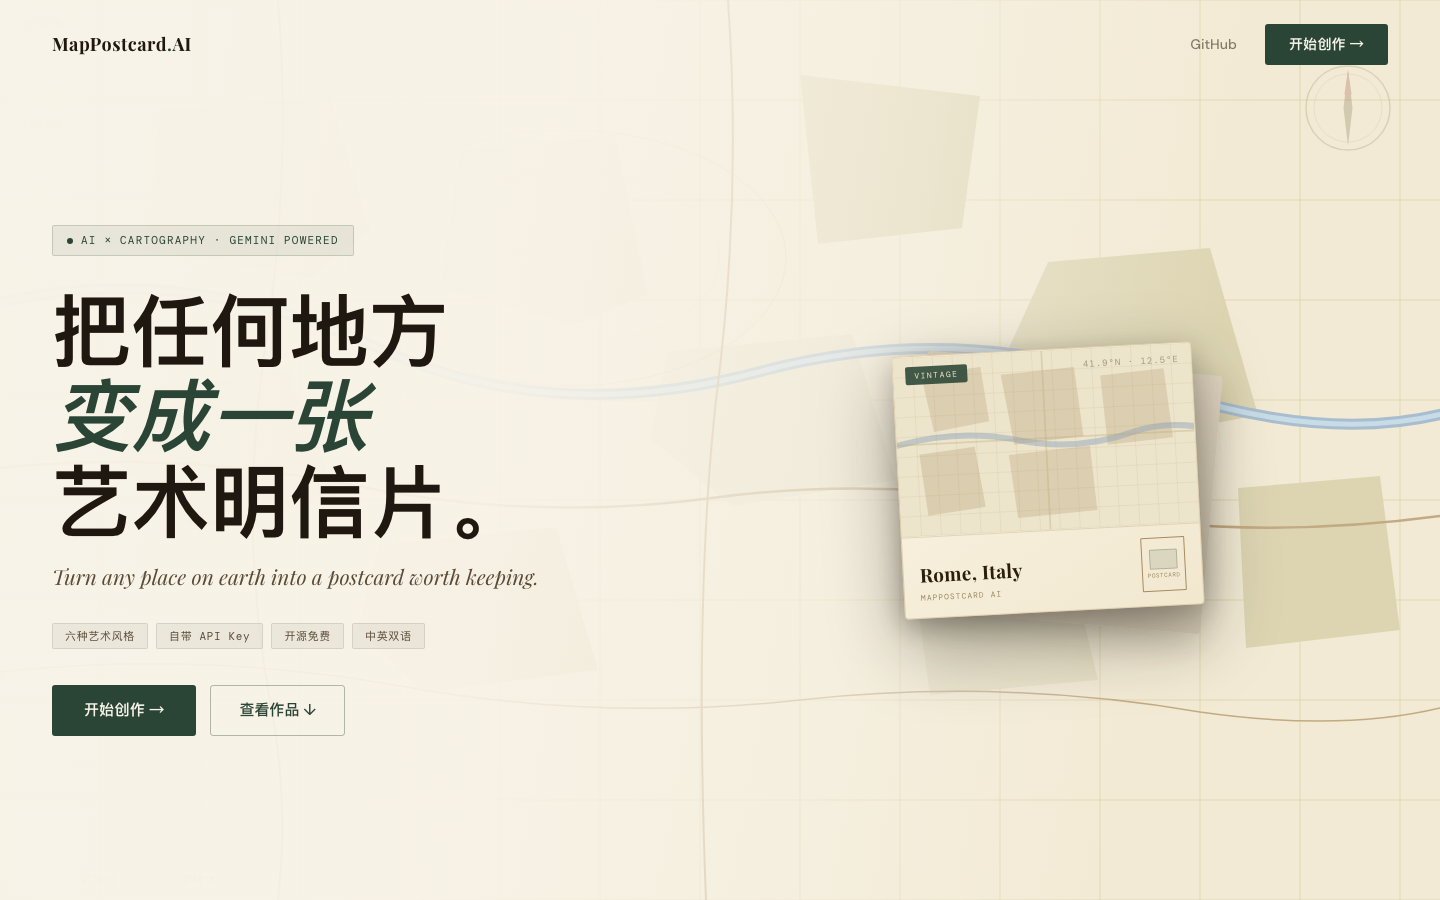
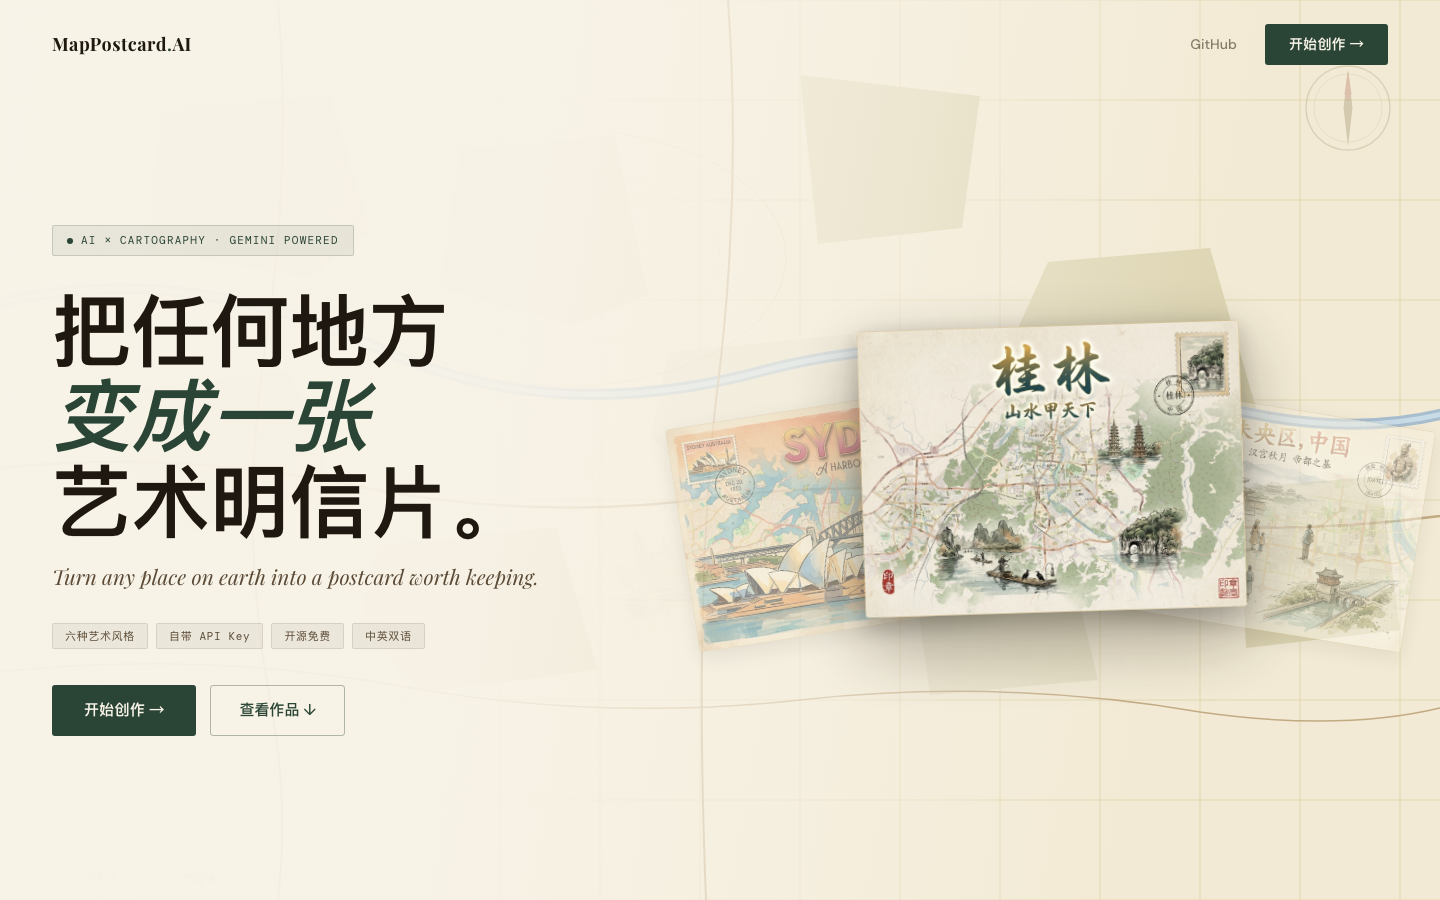
docs: add collection binder screenshot and Gemini model badges to README

Changed region(s): [[0.4375, 0.3422, 1.0, 0.7156], [0.9688, 0.5911, 1.0, 0.6222]]

diff --git a/README.zh.md b/README.zh.md
@@ -9,7 +9,9 @@
 [![License: AGPL v3](https://img.shields.io/badge/license-AGPL%20v3-blue.svg)](./LICENSE)
 [![Deploy with Vercel](https://img.shields.io/badge/deployed%20on-Vercel-black?logo=vercel)](https://postcard-map-ai.vercel.app)
 [![React](https://img.shields.io/badge/React-18-61DAFB?logo=react&logoColor=white)](https://react.dev)
-[![Gemini](https://img.shields.io/badge/Gemini-2.5%20Flash-4285F4?logo=google&logoColor=white)](https://aistudio.google.com)
+[![Gemini 2.5 Flash](https://img.shields.io/badge/Gemini-2.5%20Flash-4285F4?logo=google&logoColor=white)](https://aistudio.google.com)
+[![Gemini 3.1 Flash](https://img.shields.io/badge/Gemini-3.1%20Flash-5A9CF8?logo=google&logoColor=white)](https://aistudio.google.com)
+[![Gemini 3 Pro](https://img.shields.io/badge/Gemini-3%20Pro-1A73E8?logo=google&logoColor=white)](https://aistudio.google.com)
 
 </div>
 
@@ -17,9 +19,9 @@
 
 ## 界面截图
 
-| 落地页 | 主应用 |
-|:---:|:---:|
-| ![落地页](./img/screenshot-app.png) | ![主应用界面](./img/screenshot-app-main.png) |
+| 落地页 | 地图编辑 | 明信片集 |
+|:---:|:---:|:---:|
+| ![落地页](./img/screenshot-app.png) | ![主应用界面](./img/screenshot-app-main.png) | ![历史活页本](./img/screenshot-app-history-pan.png) |
 
 ## 功能特性
 
@@ -29,7 +31,7 @@
 - **7 种画幅比例** — 1:1、4:3、3:4、16:9、9:16、3:2、2:3
 - **明信片背面** — 与正面风格匹配的背面同步生成
 - **上传照片** — 把自己加入场景，AI 以明信片画风重新绘制你的形象
-- **历史记录** — 本次会话内的生成记录（刷新页面后清空）
+- **明信片集** — 生成的明信片收集在悬浮活页本面板中，仅限本次会话（刷新后清空）
 - **随机探索** — 罗盘按钮随机跳转城市 + 随机风格，一键获取灵感
 - **费用估算** — 每次生成后显示 token 用量和预估 USD 费用
 
@@ -112,7 +114,7 @@ vercel --prod
 
 ## 已知限制
 
-- **历史记录仅限本次会话** — 刷新页面后记录消失，不做持久化存储
+- **明信片集仅限本次会话** — 刷新页面后记录消失，不做持久化存储
 - **Nano Banana Pro 需付费 API Key** — 免费 Key 调用 `gemini-3-pro-image-preview` 会返回 403 错误
 - **地图瓦片 CORS** — 截图依赖瓦片服务允许 CORS，部分自定义图层可能截图空白
 - **费用为估算值** — 基于 token 数量计算，非 Google 实际账单数据

diff --git a/README.md b/README.md
@@ -9,7 +9,9 @@
 [![License: AGPL v3](https://img.shields.io/badge/license-AGPL%20v3-blue.svg)](./LICENSE)
 [![Deploy with Vercel](https://img.shields.io/badge/deployed%20on-Vercel-black?logo=vercel)](https://postcard-map-ai.vercel.app)
 [![React](https://img.shields.io/badge/React-18-61DAFB?logo=react&logoColor=white)](https://react.dev)
-[![Gemini](https://img.shields.io/badge/Gemini-2.5%20Flash-4285F4?logo=google&logoColor=white)](https://aistudio.google.com)
+[![Gemini 2.5 Flash](https://img.shields.io/badge/Gemini-2.5%20Flash-4285F4?logo=google&logoColor=white)](https://aistudio.google.com)
+[![Gemini 3.1 Flash](https://img.shields.io/badge/Gemini-3.1%20Flash-5A9CF8?logo=google&logoColor=white)](https://aistudio.google.com)
+[![Gemini 3 Pro](https://img.shields.io/badge/Gemini-3%20Pro-1A73E8?logo=google&logoColor=white)](https://aistudio.google.com)
 
 </div>
 
@@ -17,9 +19,9 @@
 
 ## Screenshots
 
-| Landing | App |
-|:---:|:---:|
-| ![Landing page](./img/screenshot-app.png) | ![Main app](./img/screenshot-app-main.png) |
+| Landing | Map Editor | Collection |
+|:---:|:---:|:---:|
+| ![Landing page](./img/screenshot-app.png) | ![Main app](./img/screenshot-app-main.png) | ![History binder](./img/screenshot-app-history-pan.png) |
 
 ## Features
 
@@ -29,7 +31,7 @@
 - **7 aspect ratios** — 1:1, 4:3, 3:4, 16:9, 9:16, 3:2, 2:3
 - **Postcard back** — a matching decorative back side is generated alongside the front
 - **Upload a photo** — add yourself into the scene; the AI redraws you in the postcard's artistic style
-- **History** — generated postcards are saved in the current session (cleared on page refresh)
+- **Collection binder** — generated postcards are collected in a floating ring-binder panel; session-only (cleared on page refresh)
 - **Lucky spin** — the compass button picks a random city and style for instant inspiration
 - **Cost estimate** — token usage and estimated USD cost displayed after each generation
 
